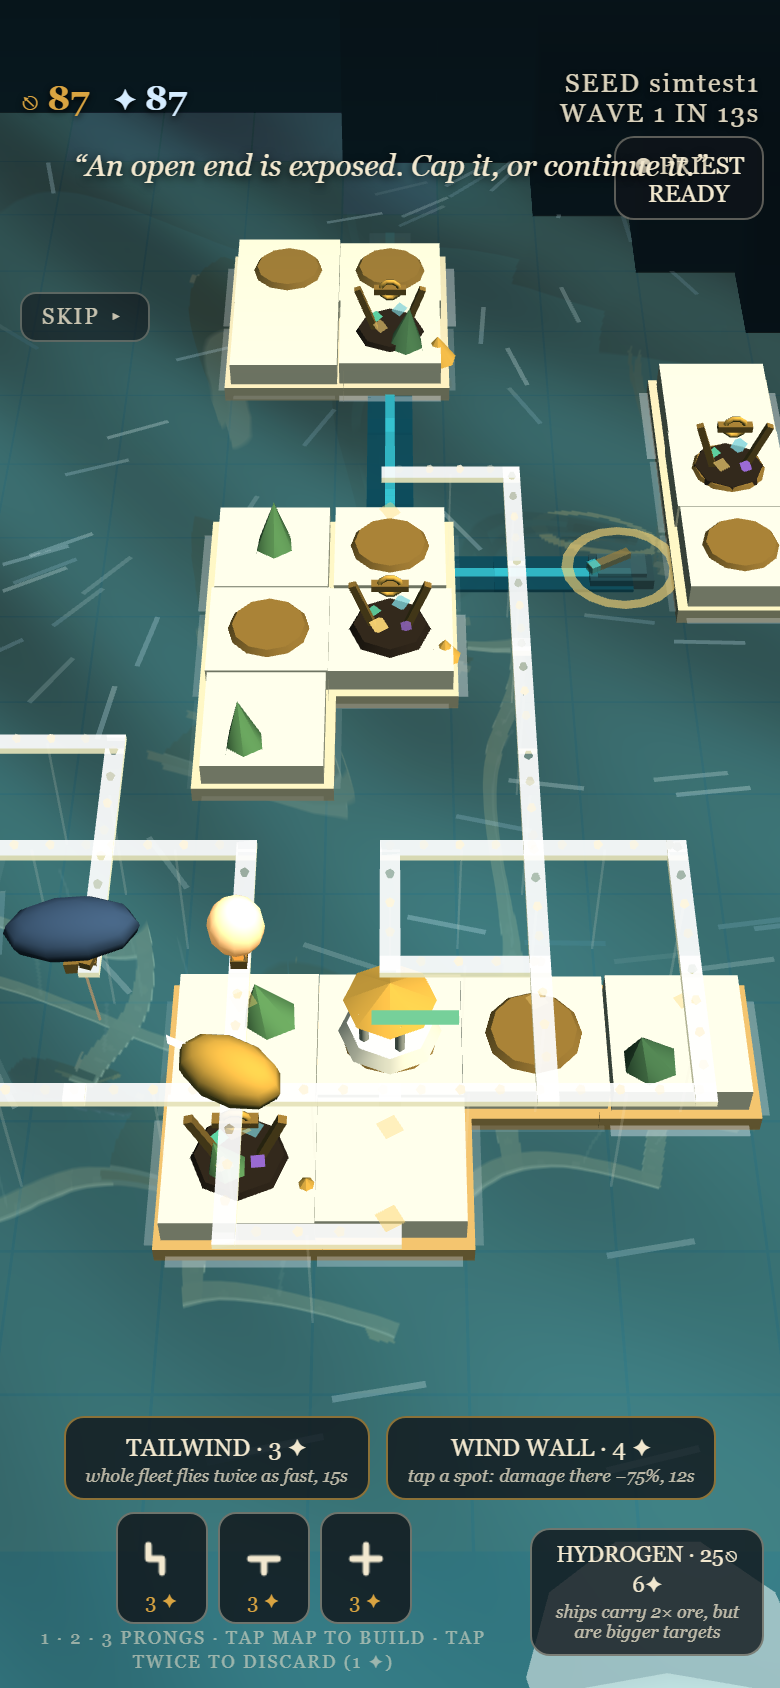
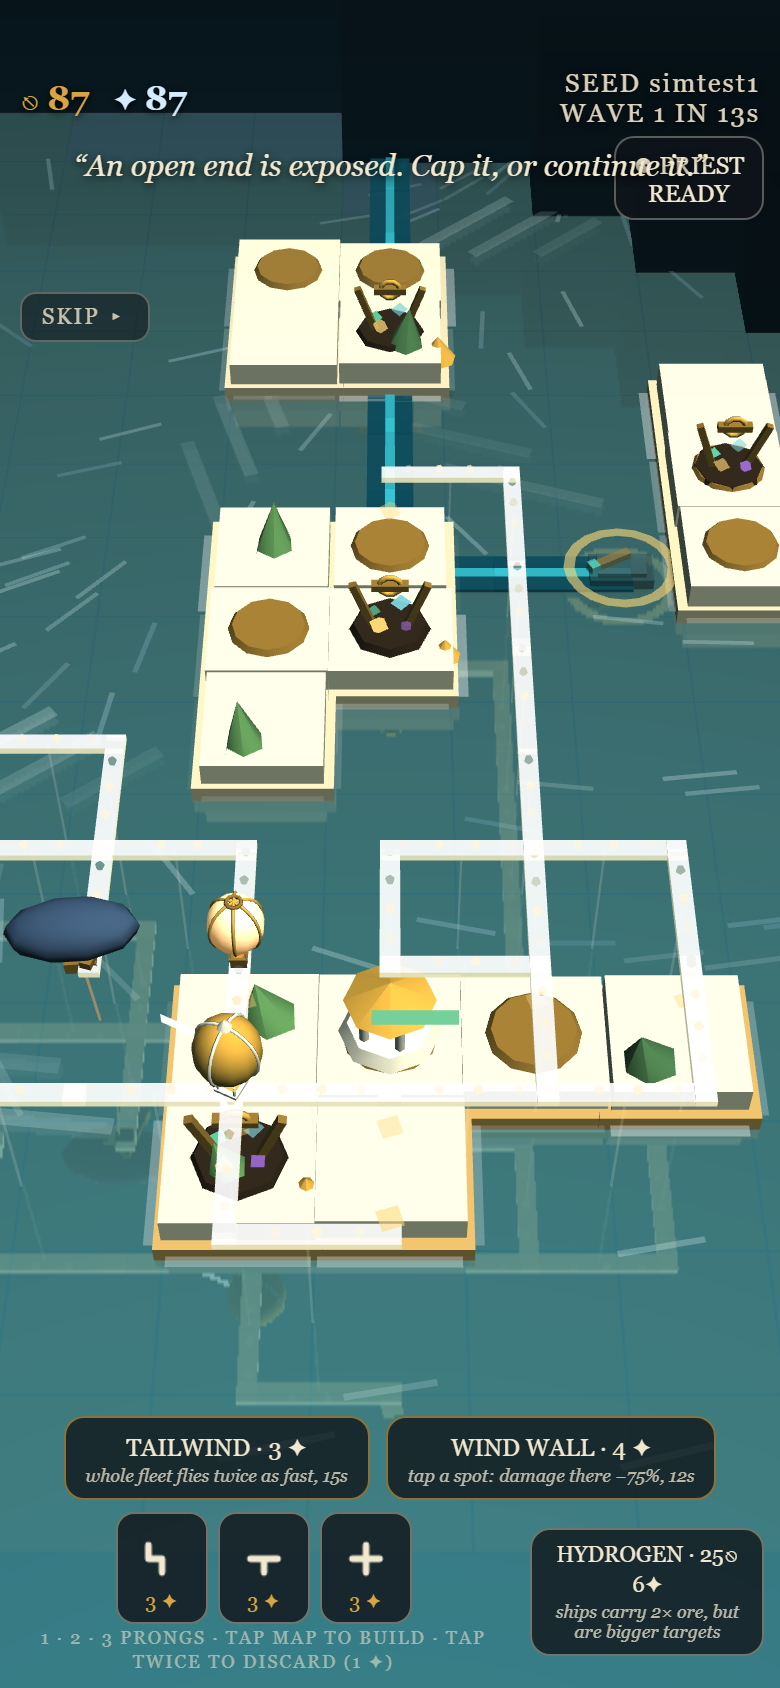
fix: flat blue water on real GPUs - GLSL cross shadowing
The wind-flow shader patch declared a variable named `cross`, which
shadows a GLSL built-in. Permissive compilers (SwiftShader, where the
screenshots are taken) accepted it; stricter GPU drivers refused to
compile the fragment shader and the sea rendered as flat blue with no
waves - exactly what the player saw live. Renamed to flowSide.

Claude-Session: https://claude.ai/code/session_01NjEpo5MjLFBKVLFNZET6tb

diff --git a/index.html b/index.html
@@ -4153,15 +4153,18 @@ function initRenderer() {
     {
       const mat = sea.material;
       mat.uniforms.flowDir = { value: new THREE.Vector2(0.7, 0.7) };
+      // NB: the cross-drift variable must NOT be named `cross` — that
+      // shadows a GLSL built-in and some drivers refuse to compile the
+      // shader (flat, normal-less water on those devices)
       mat.fragmentShader = 'uniform vec2 flowDir;\n' + mat.fragmentShader
         .replace('vec2 uv0 = ( uv / 103.0 ) + vec2(time / 17.0, time / 29.0);',
-          'vec2 cross = vec2( -flowDir.y, flowDir.x ); vec2 uv0 = ( uv / 103.0 ) - flowDir * ( time / 17.0 );')
+          'vec2 flowSide = vec2( -flowDir.y, flowDir.x ); vec2 uv0 = ( uv / 103.0 ) - flowDir * ( time / 17.0 );')
         .replace('vec2 uv1 = uv / 107.0-vec2( time / -19.0, time / 31.0 );',
-          'vec2 uv1 = uv / 107.0 - flowDir * ( time / 24.0 ) + cross * ( time / 89.0 );')
+          'vec2 uv1 = uv / 107.0 - flowDir * ( time / 24.0 ) + flowSide * ( time / 89.0 );')
         .replace('vec2 uv2 = uv / vec2( 8907.0, 9803.0 ) + vec2( time / 101.0, time / 97.0 );',
           'vec2 uv2 = uv / vec2( 8907.0, 9803.0 ) - flowDir * ( time / 101.0 );')
         .replace('vec2 uv3 = uv / vec2( 1091.0, 1027.0 ) - vec2( time / 109.0, time / -113.0 );',
-          'vec2 uv3 = uv / vec2( 1091.0, 1027.0 ) - flowDir * ( time / 109.0 ) - cross * ( time / 127.0 );');
+          'vec2 uv3 = uv / vec2( 1091.0, 1027.0 ) - flowDir * ( time / 109.0 ) - flowSide * ( time / 127.0 );');
       mat.needsUpdate = true;
     }
     // upgrade to the canonical three.js wave normals, MIRRORED LOCALLY in

diff --git a/src/18_render.js b/src/18_render.js
@@ -149,15 +149,18 @@ function initRenderer() {
     {
       const mat = sea.material;
       mat.uniforms.flowDir = { value: new THREE.Vector2(0.7, 0.7) };
+      // NB: the cross-drift variable must NOT be named `cross` — that
+      // shadows a GLSL built-in and some drivers refuse to compile the
+      // shader (flat, normal-less water on those devices)
       mat.fragmentShader = 'uniform vec2 flowDir;\n' + mat.fragmentShader
         .replace('vec2 uv0 = ( uv / 103.0 ) + vec2(time / 17.0, time / 29.0);',
-          'vec2 cross = vec2( -flowDir.y, flowDir.x ); vec2 uv0 = ( uv / 103.0 ) - flowDir * ( time / 17.0 );')
+          'vec2 flowSide = vec2( -flowDir.y, flowDir.x ); vec2 uv0 = ( uv / 103.0 ) - flowDir * ( time / 17.0 );')
         .replace('vec2 uv1 = uv / 107.0-vec2( time / -19.0, time / 31.0 );',
-          'vec2 uv1 = uv / 107.0 - flowDir * ( time / 24.0 ) + cross * ( time / 89.0 );')
+          'vec2 uv1 = uv / 107.0 - flowDir * ( time / 24.0 ) + flowSide * ( time / 89.0 );')
         .replace('vec2 uv2 = uv / vec2( 8907.0, 9803.0 ) + vec2( time / 101.0, time / 97.0 );',
           'vec2 uv2 = uv / vec2( 8907.0, 9803.0 ) - flowDir * ( time / 101.0 );')
         .replace('vec2 uv3 = uv / vec2( 1091.0, 1027.0 ) - vec2( time / 109.0, time / -113.0 );',
-          'vec2 uv3 = uv / vec2( 1091.0, 1027.0 ) - flowDir * ( time / 109.0 ) - cross * ( time / 127.0 );');
+          'vec2 uv3 = uv / vec2( 1091.0, 1027.0 ) - flowDir * ( time / 109.0 ) - flowSide * ( time / 127.0 );');
       mat.needsUpdate = true;
     }
     // upgrade to the canonical three.js wave normals, MIRRORED LOCALLY in

diff --git a/buildlog/BUILDLOG.md b/buildlog/BUILDLOG.md
@@ -124,6 +124,7 @@ ENTRY TEMPLATE — copy for each session.
 | 34 | **Storm surge instead of blob breakers (player: "look bad, just blobs — be the water or don't"):** rim breakers deleted; on each wave telegraph the WHOLE sea rises (Water-shader distortion + wave speed swell through the 8s warning, rage ~20s, ease back). Canonical `waternormals.jpg` mirrored into /vendor per player instruction (runtime canvas normals stay as the file:// fallback — browsers can refuse local images as WebGL textures, which is the classic failure). Bolts aimable at placement (wedge ghost + TURN traverses 45°, facing commits — player asked after seeing the new wedge). Fog boundary unified: enemy lanes/structures draw wherever ground shroud is lifted (explored ∪ influence), killing the clear-water ring that hid lanes until the live-vision bubble arrived; craft still need live eyes | `b449911` | feat: storm surge, aimable bolts, honest fog |
 | 35 | **Gesture trap escaped (player: stuck in pan/tilt/zoom, taps dead):** a missed pointerup left a ghost entry in the pointer map, so every later touch read as multi-finger forever. Four defenses: primary-touch purge (a PRIMARY pointerdown proves no other finger is truly down), setPointerCapture (guarantees the matching up/cancel), lostpointercapture cleanup, and blur/tab-hide forgetting all gesture state. `test/test_input.js` (real Playwright input, replaces the stale scratchpad rig) injects orphaned pointers and proves a tap still opens the menu. Player's console dump also caught a live crash: the waternormals upgrade set `uniforms.waterNormals` but the Water shader's uniform is `normalSampler` — the canonical texture never applied on Pages and threw on image load; fixed + guarded, favicon 404 silenced | `362431c` | fix: gesture trap + normals uniform crash |
 | 36 | **Wind-true water + desktop mouse + bombardment audio (player-directed):** (a) the Water shader's four hardcoded noise-scroll vectors patched to a wind-driven `flowDir` uniform (world-space; smoothed 0.8/s so camera pans across sheared wind never snap the ocean) — the sea and the whitecaps finally move together, and speed still scales with wind + storm surge; (b) full mouse controls: wheel zoom, right-drag orbit+tilt, context menu suppressed, right-clicks never tap; (c) player: "attacking our temple sounds like a slot machine" — greatTempleHit streams at damage-tick rate and played two square bleeps per event; now one heavy masonry boom max/1.2s + stone-chip noise, rhythmic debris embers paced with it, and a separately-throttled dull impact crack for shots landing anywhere | `5612e23` | feat: wind-true water, mouse, bombardment audio |
+| 37 | **Fleet remodel + five playtest reports (player-directed):** all ship models rebuilt — hot-air = gored free balloons (meridians, crown, skirt, wicker basket), hydrogen = Santos-Dumont dirigibles (cigar envelope, girdle bands, cruciform fins, keel gondola, spinning pusher prop), priest = gilded balloon carrying a four-column flying shrine, Poseidon = true triremes (waterline ram, curled sternpost, oar banks; shields/armor/pump/amphorae by class); materials cloned per ship so venting/burner stay individual. Aegis shows its protection zone (wisps swirling at full cover radius). Pan no longer races the water (churn calms to 12% while dragging — reflections already sweep with the eye). Depleted mines explode and become bronze BUILD PADS (new plot at the quarry cell). Islands trail lee wakes downwind (fog-gated) | `a9f68a0` | feat: fleet remodel, aegis zone, calm-pan water, mine pads, wakes |
 | 22 | **Favor income sweep** (`test/opt_income.js`, `opt_income2.js`): divisor-only sweep showed lean income causes death-spirals (lose temples → can't afford roads → segsA collapses to 10); pairing a leaner territory rate with a fatter territory-free baseline fixes it. Pairs [8,4] and [16,6] tie at 92; chose **divisor 16 + baseline 6/10s** because actives end at 24–31 Favor (every power cast competes with roads — the tension we wanted) vs 100+ spare at [8,4]. The baseline drip is rebuild insurance | `dfc95e5` | tune: favor income 16-divisor + 6 baseline, sweep-derived |
 | 21 | **Favor price sweep** (`test/opt_favor.js`): prices 1/2/3/5 score identically (avg 90 across 3 seeds) because temple-influence Favor income floods the price; at 5 active players end at 0 Favor (powers become unaffordable — the sim can't see this since the script never casts); at 8 networks starve on 2 of 3 seeds. **Chose 3**: quality identical to 1, reserves halved, price felt, powers budget preserved. Flagged follow-up: Favor *income* (hundreds per match from temple influence) is the real oversupply lever | `3baed33` | tune: piece price 3 favor, sweep-derived |
 | 18 | **Toast discipline (player-directed):** every transient line (tutorial, banner, ticker, codex) is tap-to-dismiss; story/tutorial lines show once EVER via localStorage (skip marks them all seen); codex long-press slowed to ~1s so it stops firing accidentally | `fe63d05` | fix: dismissible, once-only story toasts |
